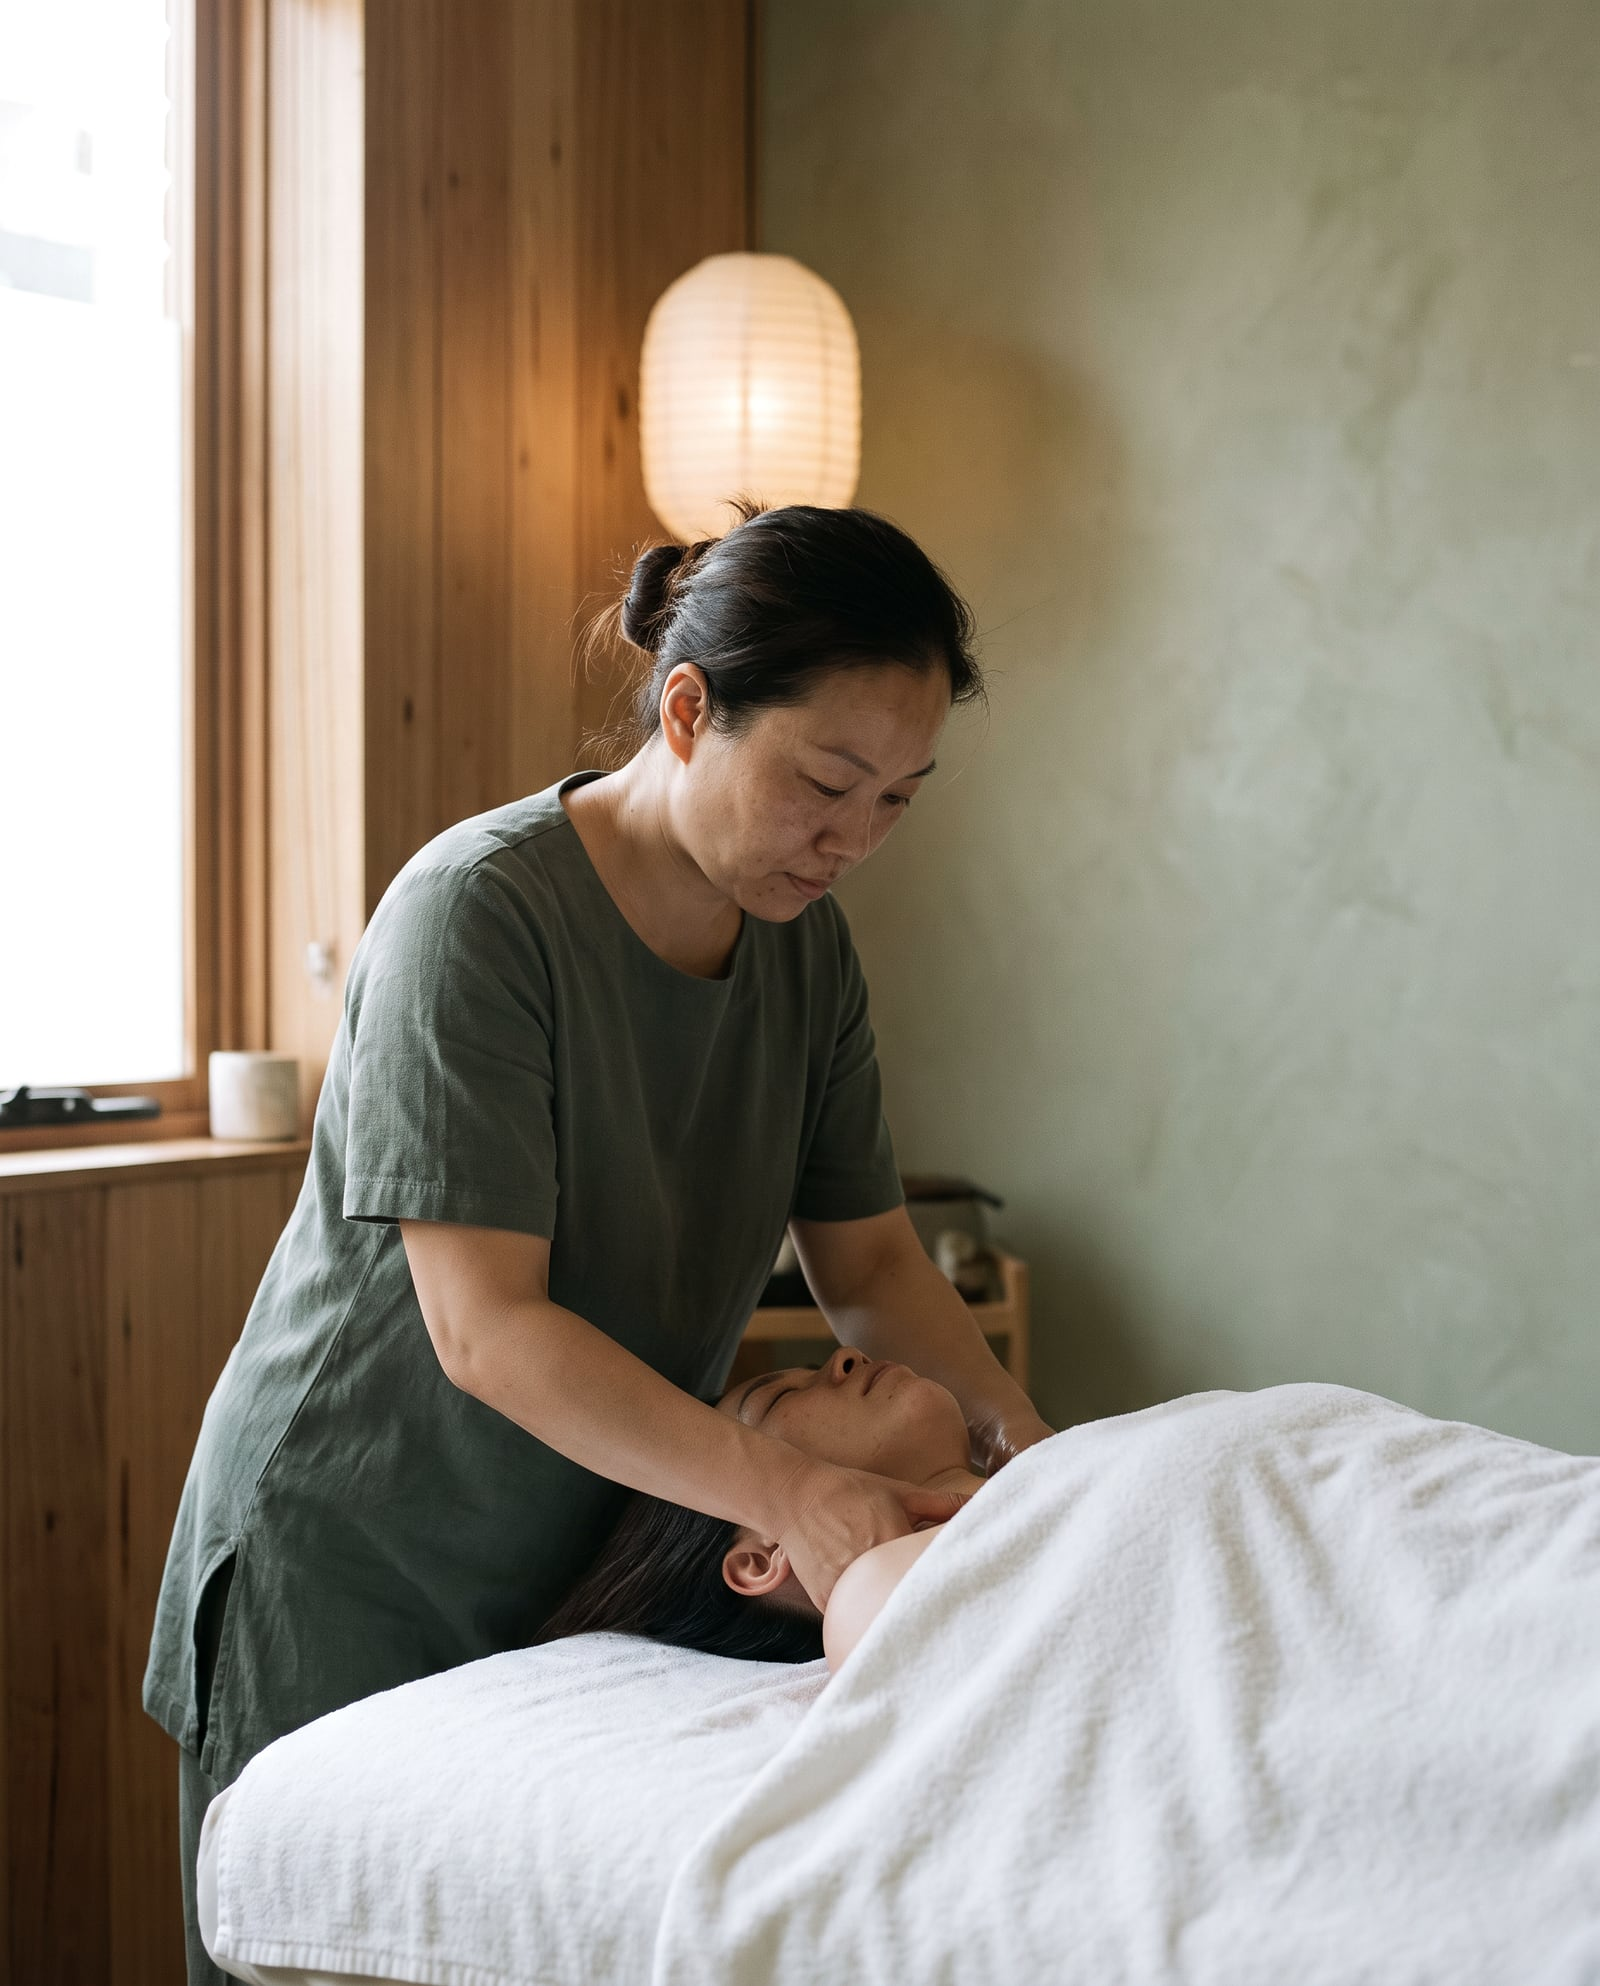
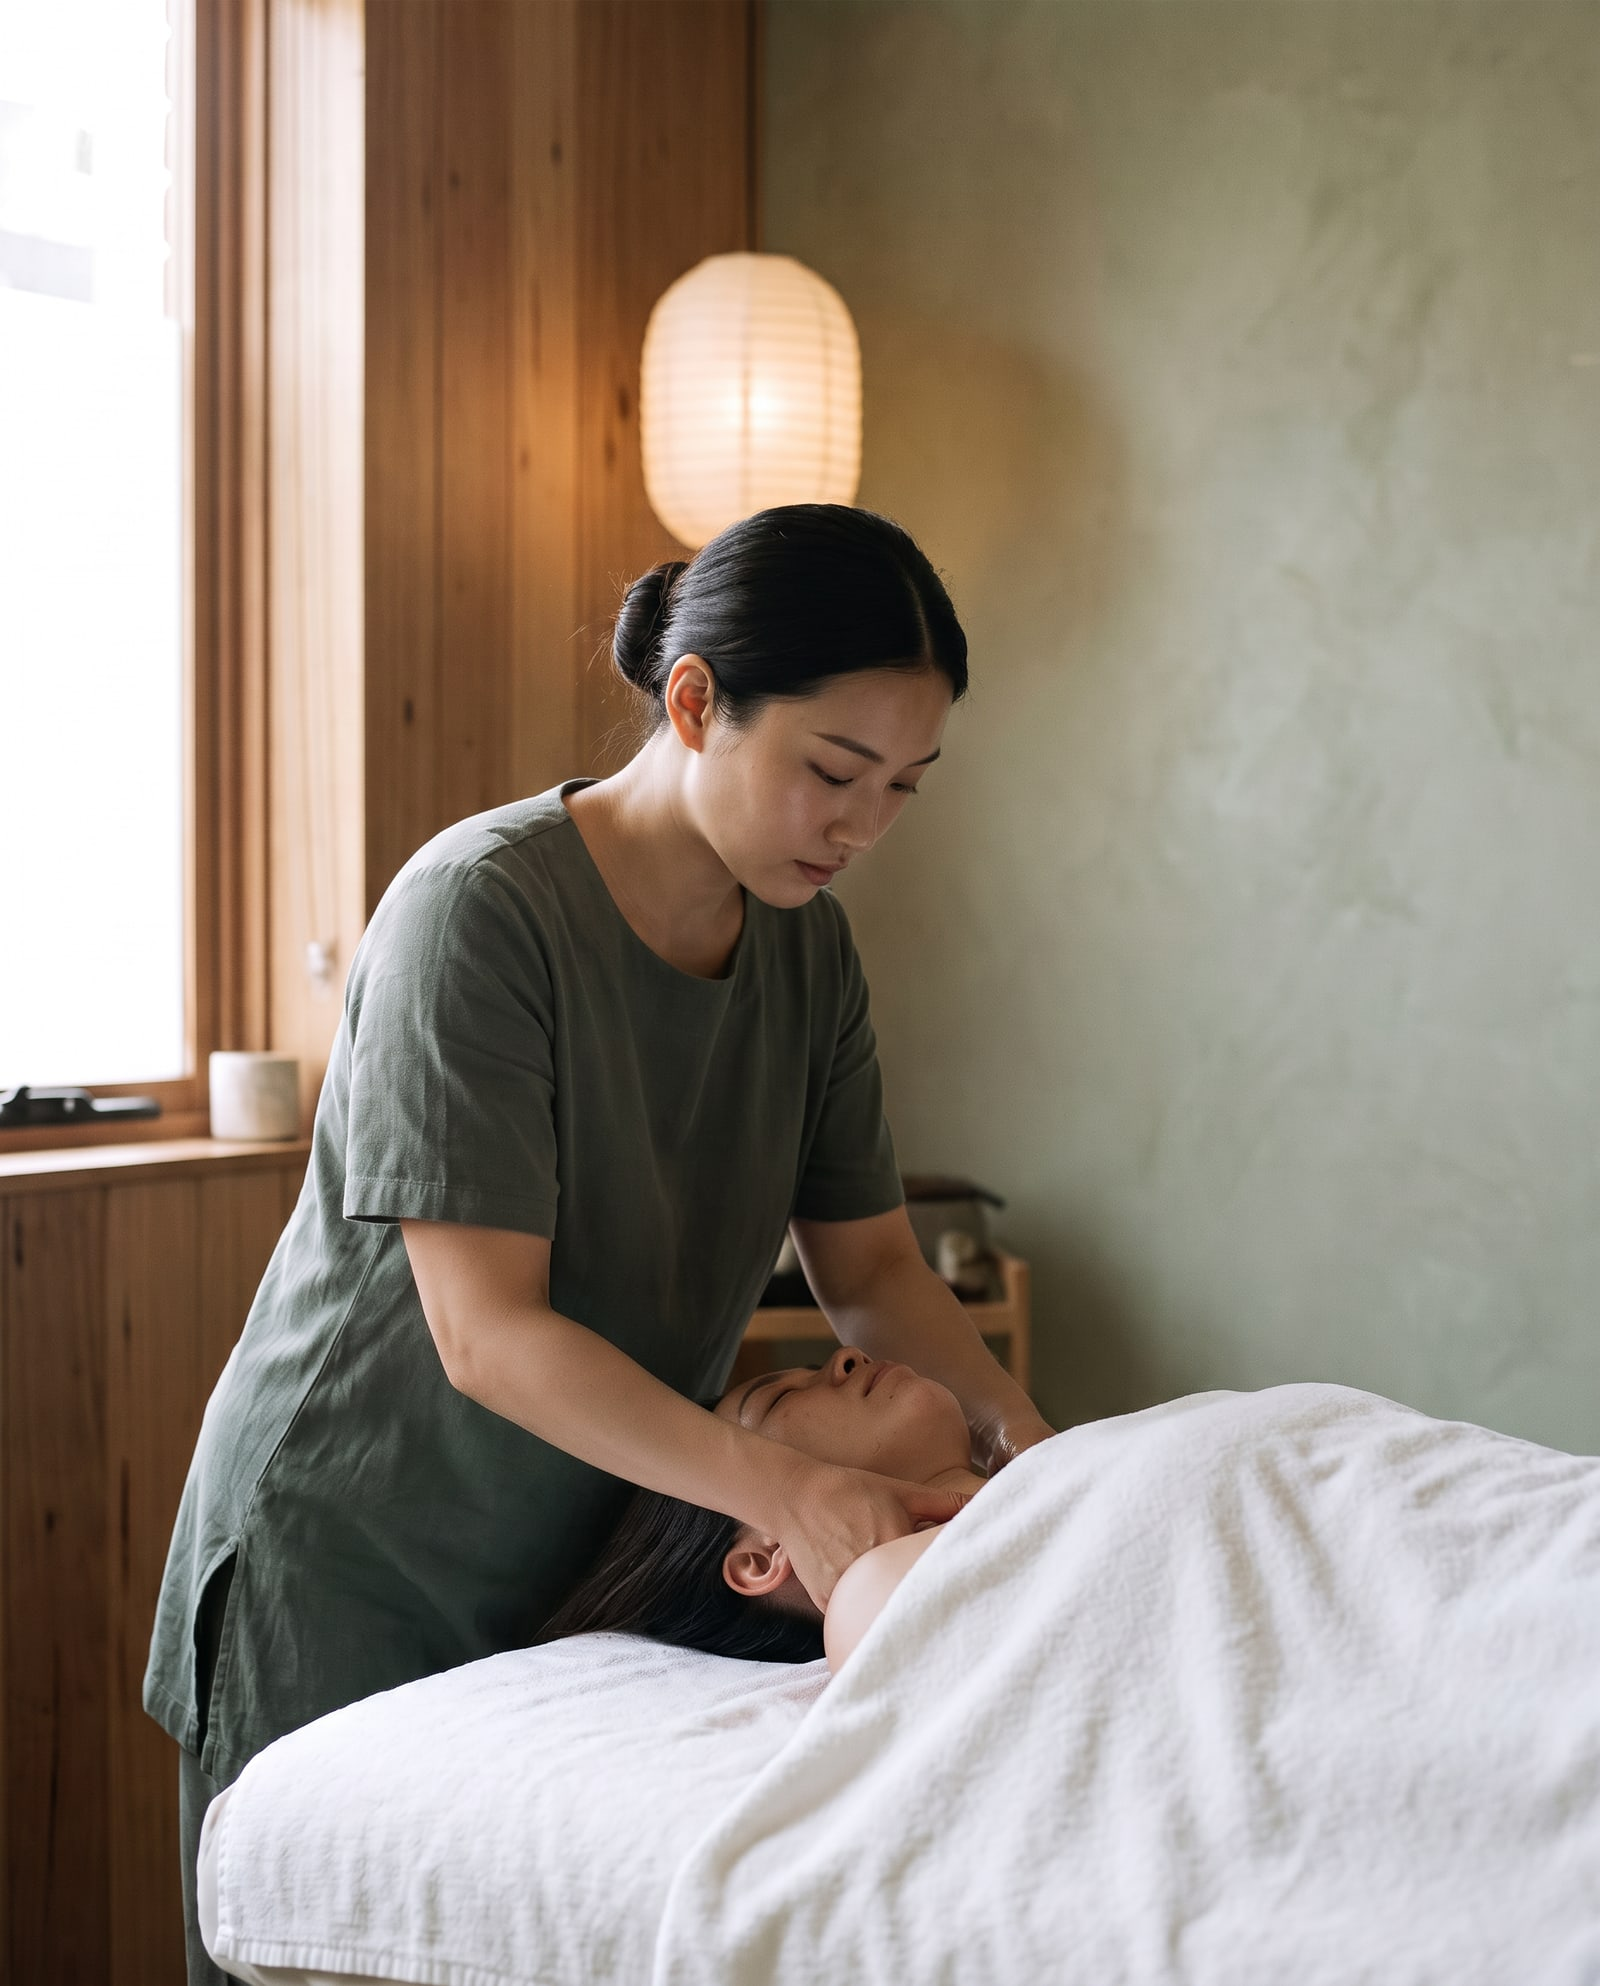
New, model-like young therapists in the Our story team photo and the A Quiet Pause and Classic Relaxation treatment photos (client request); Quiet Pause alt text corrected

diff --git a/docs/CREDITS.md b/docs/CREDITS.md
@@ -68,12 +68,12 @@ AI-generated tracks were excluded on purpose: a brand sound should be human-made
 | shop-front.jpg (placeholder Sia studio front in a shopping centre, until the owner supplies a real photo) | Generated for Sia with OpenArt (GPT Image 2.5 Sunburst), Plus plan with commercial use rights, 2026-10-28 |
 | morning-room.jpg (philosophy story, step one: a pale treatment room in morning light) | Generated for Sia with OpenArt (Nano Banana Pro), Plus plan with commercial use rights, 2026-10-28 |
 | team-placeholder.jpg (no longer used; was the philosophy story placeholder) | Supplied by the designer as a placeholder, 2026-11-01; source and licence unknown — not for launch, replace with the owner's own approved photo |
-| treat-quiet-pause.jpg, treat-classic.jpg, treat-deep.jpg, treat-ritual.jpg, treat-together.jpg, treat-gift.jpg (treatments: one photo per treatment) | Generated for Sia with OpenArt (Nano Banana Pro), Plus plan with commercial use rights, 2026-11-01; graded toward the site palette. AI-generated people: replace with real photos of Sia's own team and rooms when available |
+| treat-quiet-pause.jpg, treat-classic.jpg, treat-deep.jpg, treat-ritual.jpg, treat-together.jpg, treat-gift.jpg (treatments: one photo per treatment) | Generated for Sia with OpenArt (Nano Banana Pro), Plus plan with commercial use rights, 2026-11-01; graded toward the site palette. treat-quiet-pause.jpg and treat-classic.jpg re-done 2026-11-07 (younger, model-like therapists at the client's request; Nano Banana Pro). AI-generated people: replace with real photos of Sia's own team and rooms when available |
 | faq-room.jpg (FAQ: a treatment room made up and waiting) | Generated for Sia with OpenArt (Nano Banana Pro), Plus plan with commercial use rights, 2026-11-01; graded toward the site palette. Replace with a real photo of Sia's own room when available |
 | rain-pond.jpg (contact background, formerly the rain pause: a still forest pond seen close at water level) | Generated for Sia with OpenArt (Nano Banana Pro), Plus plan with commercial use rights, 2026-10-28 |
 | rain-lotus-pads.webp, rain-lotus-flower.webp (contact, formerly the rain pause: a white lotus on its lily pads, cut out from a magenta backdrop, as two layers: the whole lotus behind the card, the flower alone in front of it) | Generated for Sia with OpenArt (Nano Banana Pro), Plus plan with commercial use rights, 2026-10-28 |
 | wall-plaster.jpg (doorway wall: moss lime plaster, darkened and mirrored into a seamless tile) | Generated for Sia with OpenArt (Nano Banana 2), Plus plan with commercial use rights, 2026-10-26 |
 | garden-bamboo-a.webp, garden-bamboo-b.webp (courtyard tall airy bamboo in round carved stone pots, cut out) | Generated for Sia with OpenArt (Nano Banana 2), Plus plan with commercial use rights, 2026-10-26 |
 | spa-room.jpg (view through the doorway: candlelit spa treatment room seen from the threshold, with rug, door mat and lotus painting; gentle low-light grade; therapist and client re-done 2026-11-01 — only the people were regenerated, from a crop, and blended back into the unchanged room) | Generated for Sia with OpenArt (Nano Banana Pro), Plus plan with commercial use rights, 2026-10-27 (people 2026-11-01) |
-| team-sia.jpg (philosophy story: AI-generated PLACEHOLDER of a therapist team in sage uniforms; these are not Sia's staff — replace with the owner's real team photo before launch) | Generated for Sia with OpenArt (Nano Banana Pro), Plus plan with commercial use rights, 2026-11-03 |
+| team-sia.jpg (philosophy story: AI-generated PLACEHOLDER of a therapist team in sage uniforms; these are not Sia's staff — replace with the owner's real team photo before launch) | Generated for Sia with OpenArt (Nano Banana Pro), Plus plan with commercial use rights, 2026-11-03; re-done 2026-11-07 with three new, model-like young women at the client's request (previous version in archive/replaced-2026-11-07) |
 | tradition-hands.jpg (philosophy: the tradition card; a therapist's hands on a guest's back) | Generated for Sia with OpenArt (Nano Banana Pro), Plus plan with commercial use rights, 2026-11-03 |
